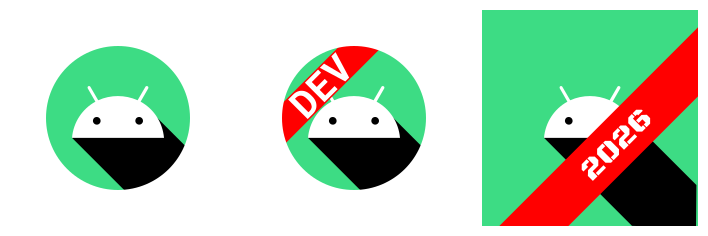
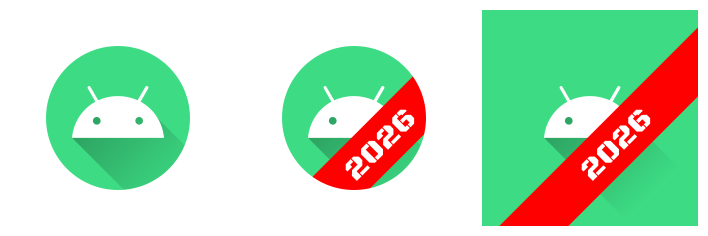
Add scripts/ for regenerating the README previews
Moves the throwaway VectorDrawable-to-SVG converter out of a scratch
directory and into the repo, with a CLAUDE.md covering usage and, more
usefully, what it does not implement.

Adds an animated preview of the themed icon cycling three system tints. That
needed <clip-path> support, which the converter did not have and which the
monochrome output is built entirely from — previously it could not render
that layer at all, which meant the one output with genuinely tricky geometry
was the one never looked at.

Group transforms and linear gradients are handled now too. Gradients turned
out to matter immediately: the stock launcher foreground fills its shadow
with one, and the previous converter defaulted the missing fillColor to flat
black, so every image so far has shown a hard black wedge where the icon has
a soft translucent ramp.

GIF over APNG or animated WebP: three flat-colour frames sit inside a 256
colour palette with room to spare, it is 8kB, and nothing anywhere fails to
display it.

diff --git a/scripts/vd2svg.py b/scripts/vd2svg.py
@@ -1,0 +1,192 @@
+#!/usr/bin/env python3
+"""Flatten an Android VectorDrawable into plain SVG, for previewing generated icons.
+
+A previewer, not a conformant renderer. See scripts/CLAUDE.md for what it does not cover.
+
+Usage:
+    vd2svg.py OUT.svg LAYER.xml [LAYER.xml ...] [options]
+
+Layers are drawn in the order given, so background first.
+
+Options:
+    --mask              Clip to the adaptive-icon circle, approximating what a launcher shows.
+    --tint COLOR        Ignore declared fills and paint everything COLOR, keeping alpha. This is
+                        what the system does to a <monochrome> layer.
+    --background COLOR  Fill the masked area with COLOR first, so cutouts have something to show.
+"""
+import sys
+import xml.etree.ElementTree as ET
+
+ANDROID = "{http://schemas.android.com/apk/res/android}"
+
+
+def attr(element, name, default=None):
+    return element.get(ANDROID + name, default)
+
+
+def number(element, name, default=0.0):
+    try:
+        return float(attr(element, name, default))
+    except (TypeError, ValueError):
+        return default
+
+
+AAPT = "{http://schemas.android.com/aapt}"
+
+
+def split_argb(colour):
+    """#AARRGGBB or #RRGGBB to (#RRGGBB, alpha)."""
+    if colour.startswith("#") and len(colour) == 9:
+        return "#" + colour[3:], int(colour[1:3], 16) / 255.0
+    return colour, 1.0
+
+
+class Converter:
+    def __init__(self, tint=None):
+        self.tint = tint
+        self.clip_id = 0
+        self.gradient_id = 0
+        self.definitions = []
+
+    def gradient(self, element):
+        """A linear <gradient> nested in an aapt:attr, as an SVG def. Returns a url(...) or None."""
+        for holder in element.iter(AAPT + "attr"):
+            if holder.get("name") != "android:fillColor":
+                continue
+            for gradient in holder.iter("gradient"):
+                # Radial and sweep exist too; the plugin never emits either, so they are not worth
+                # guessing at. Fall through to the flat fill instead of rendering something wrong.
+                if attr(gradient, "type", "linear") != "linear":
+                    return None
+                self.gradient_id += 1
+                name = f"grad{self.gradient_id}"
+                stops = ""
+                for item in gradient.iter("item"):
+                    colour, alpha = split_argb(attr(item, "color", "#000000"))
+                    # A monochrome layer keeps only alpha, so the ramp survives but the hue does not.
+                    stops += (
+                        f'<stop offset="{number(item, "offset"):g}" '
+                        f'stop-color="{self.tint or colour}" stop-opacity="{alpha:g}"/>'
+                    )
+                self.definitions.append(
+                    f'<linearGradient id="{name}" gradientUnits="userSpaceOnUse" '
+                    f'x1="{number(gradient, "startX"):g}" y1="{number(gradient, "startY"):g}" '
+                    f'x2="{number(gradient, "endX"):g}" y2="{number(gradient, "endY"):g}">'
+                    f"{stops}</linearGradient>"
+                )
+                return f"url(#{name})"
+        return None
+
+    def fill(self, element):
+        rule = "evenodd" if attr(element, "fillType") == "evenOdd" else "nonzero"
+        opacity = number(element, "fillAlpha", 1.0)
+
+        reference = self.gradient(element)
+        if reference:
+            return f'fill="{reference}" fill-opacity="{opacity:g}" fill-rule="{rule}"'
+
+        colour = attr(element, "fillColor") or "none"
+        colour, alpha = split_argb(colour)
+        opacity *= alpha
+        if self.tint and colour != "none":
+            colour = self.tint
+        return f'fill="{colour}" fill-opacity="{opacity:g}" fill-rule="{rule}"'
+
+    @staticmethod
+    def transform(group):
+        """Android applies scale, then rotation, then translation, all about the pivot."""
+        pivot_x, pivot_y = number(group, "pivotX"), number(group, "pivotY")
+        rotation = number(group, "rotation")
+        scale_x, scale_y = number(group, "scaleX", 1.0), number(group, "scaleY", 1.0)
+        translate_x, translate_y = number(group, "translateX"), number(group, "translateY")
+        if (rotation, scale_x, scale_y, translate_x, translate_y) == (0.0, 1.0, 1.0, 0.0, 0.0):
+            return ""
+        parts = [f"translate({translate_x + pivot_x:g},{translate_y + pivot_y:g})"]
+        if rotation:
+            parts.append(f"rotate({rotation:g})")
+        if (scale_x, scale_y) != (1.0, 1.0):
+            parts.append(f"scale({scale_x:g},{scale_y:g})")
+        parts.append(f"translate({-pivot_x:g},{-pivot_y:g})")
+        return f' transform="{" ".join(parts)}"'
+
+    def children(self, parent):
+        """Render a <vector> or <group>'s children, honouring any <clip-path> siblings."""
+        out = []
+        clips = [c for c in parent if c.tag == "clip-path"]
+        for child in parent:
+            if child.tag == "path":
+                data = attr(child, "pathData")
+                if data:
+                    out.append(f'<path d="{data}" {self.fill(child)}/>')
+            elif child.tag == "group":
+                out.append(f"<g{self.transform(child)}>{self.children(child)}</g>")
+        body = "".join(out)
+
+        # A <clip-path> constrains everything else in the same group.
+        for clip in clips:
+            data = attr(clip, "pathData")
+            if not data:
+                continue
+            self.clip_id += 1
+            name = f"clip{self.clip_id}"
+            rule = "evenodd" if attr(clip, "fillType") == "evenOdd" else "nonzero"
+            body = (
+                f'<clipPath id="{name}"><path d="{data}" clip-rule="{rule}"/></clipPath>'
+                f'<g clip-path="url(#{name})">{body}</g>'
+            )
+        return body
+
+
+def main(argv):
+    options = {"--tint": None, "--background": None}
+    args, mask, index = [], False, 1
+    while index < len(argv):
+        token = argv[index]
+        if token == "--mask":
+            mask = True
+        elif token in options:
+            index += 1
+            options[token] = argv[index]
+        else:
+            args.append(token)
+        index += 1
+
+    if len(args) < 2:
+        print(__doc__, file=sys.stderr)
+        return 2
+
+    destination, layers = args[0], args[1:]
+    converter = Converter(tint=options["--tint"])
+
+    width = height = 108.0
+    body = ""
+    for layer in layers:
+        root = ET.parse(layer).getroot()
+        width = number(root, "viewportWidth", width)
+        height = number(root, "viewportHeight", height)
+        body += converter.children(root)
+
+    radius = min(width, height) / 3.0  # the 72dp mask of a 108dp canvas
+    if options["--background"]:
+        backdrop = (
+            f'<circle cx="{width / 2:g}" cy="{height / 2:g}" r="{radius:g}" '
+            f'fill="{options["--background"]}"/>'
+        ) if mask else f'<rect width="{width:g}" height="{height:g}" fill="{options["--background"]}"/>'
+        body = backdrop + body
+    if mask:
+        body = (
+            f'<clipPath id="mask"><circle cx="{width / 2:g}" cy="{height / 2:g}" r="{radius:g}"/>'
+            f"</clipPath><g clip-path=\"url(#mask)\">{body}</g>"
+        )
+
+    defs = f"<defs>{''.join(converter.definitions)}</defs>" if converter.definitions else ""
+    with open(destination, "w") as handle:
+        handle.write(
+            f'<svg xmlns="http://www.w3.org/2000/svg" viewBox="0 0 {width:g} {height:g}" '
+            f'width="216" height="216">{defs}{body}</svg>'
+        )
+    return 0
+
+
+if __name__ == "__main__":
+    sys.exit(main(sys.argv))

diff --git a/scripts/CLAUDE.md b/scripts/CLAUDE.md
@@ -1,0 +1,45 @@
+# scripts/
+
+Throwaway tooling for looking at generated icons. Not part of the plugin, not on any build path.
+
+## Regenerating the README images
+
+```bash
+./scripts/preview.sh              # docs/preview.png            production / dev / full foreground
+./scripts/preview-monochrome.sh   # docs/preview-monochrome.gif themed icon cycling three tints
+```
+
+Both need `python3`, `inkscape` and `imagemagick` on PATH, and both build `:app` first. They render
+whatever `app/build.gradle.kts` currently configures, so the images track the demo app's settings —
+change the corner, text or font there and rerun.
+
+## Previewing one drawable
+
+```bash
+python3 scripts/vd2svg.py out.svg background.xml foreground.xml --mask
+python3 scripts/vd2svg.py out.svg mono.xml --mask --tint '#D32F2F' --background '#F6DEDE'
+```
+
+Layers draw in the order given. `--mask` clips to the adaptive-icon circle. `--tint` repaints every
+fill in one colour while keeping alpha, which is what the system does to a `<monochrome>` layer;
+`--background` fills the masked area first, so cutouts have something to show through.
+
+`<clip-path>` and `<group>` transforms are both handled, which the monochrome output needs — it is
+defined entirely by a clip, and without one you would see icon content bleeding across the band that
+a device never draws.
+
+## What this is not
+
+`vd2svg.py` is a previewer, not a conformant VectorDrawable renderer.
+
+- **Gradients** (`aapt:attr` inline resources) are dropped. It warns on stderr.
+- **The mask is a circle**, which is this script's guess. Real launchers use squircles, teardrops and
+  rounded squares. A circle is the most aggressive common shape, so it is a useful conservative check
+  for content clipped at the rim — but it is not what any specific device draws.
+- **The themed-icon colours are invented.** Android derives them from the wallpaper palette; the
+  three in `preview-monochrome.sh` were picked to look plausible and to differ from each other.
+- **Trailing detail** — stroke attributes, `trimPath`, and anything else the plugin does not emit —
+  is unimplemented rather than approximated.
+
+Output is reconstructed from generated XML, not captured from a device. For anything load-bearing,
+install the app and look at it.

diff --git a/README.md b/README.md
@@ -124,10 +124,20 @@ vector, and writes a bannered copy into a generated resource directory under the
 name. AGP's resource merger orders generated resources last, so the copy wins. Your source tree is
 never modified.
 
+### Themed icons
+
+<img src="docs/preview-monochrome.gif" alt="The themed icon cycling through three system tints, the banner text staying a cutout" width="200" align="right">
+
 Themed icons are handled properly rather than ignored. A monochrome layer keeps only alpha, so an
-overlaid ribbon would render as one solid unreadable wedge. The plugin instead clips the icon content
-away from the band and punches the text out of the ribbon as transparent holes, emitting that under a
-separate name and redirecting `<monochrome>` at it.
+overlaid ribbon would render as one solid unreadable wedge — banner and text both opaque, nothing to
+tell them apart.
+
+The plugin instead clips the icon content away from the band and punches the text out of the ribbon
+as transparent holes, emitting that under a separate name and redirecting `<monochrome>` at it. The
+text is a genuine cutout, so it stays legible whatever tint the system picks.
+
+<br clear="right">
+
 
 Geometry is measured against the adaptive-icon **safe zone**, not the full 108dp canvas — a launcher
 masks the icon to a circle, and text sized to the canvas gets sheared off at the rim.
